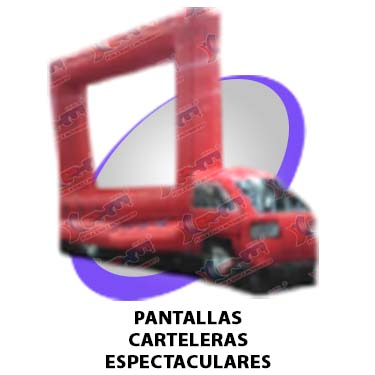
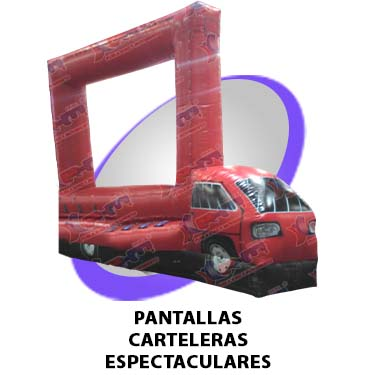
Ajustes solicitados por Marlene

Changed region(s): [[0.1173, 0.0, 0.8507, 0.8213], [0.6747, 0.6747, 0.704, 0.7333]]

diff --git a/frontend/src/components/HowToBuySection.jsx b/frontend/src/components/HowToBuySection.jsx
@@ -3,37 +3,65 @@ function HowToBuySection() {
     {
       id: 1,
       title: 'PASO 1',
-      description: 'Explora nuestro catálogo de productos y encuentra lo que necesitas'
+      description: (
+        <>
+          <strong>Explora nuestro catálogo de productos y encuentra lo que necesitas</strong>
+        </>
+      )
     },
     {
       id: 2,
       title: 'PASO 2',
-      description: 'Contacta con nuestro equipo de ventas por WhatsApp o teléfono'
+      description: (
+        <>
+          <strong>Contacta con nuestro equipo de ventas por WhatsApp o teléfono</strong>
+        </>
+      )
     },
     {
       id: 3,
       title: 'PASO 3',
-      description: 'Cuéntanos tu idea y personaliza tu producto'
+      description: (
+        <>
+          <strong>Cuéntanos tu idea y personaliza tu producto</strong>
+        </>
+      )
     },
     {
       id: 4,
       title: 'PASO 4',
-      description: 'Recibe una cotización detallada sin compromiso'
+      description: (
+        <>
+          <strong>Recibe una cotización detallada sin compromiso</strong>
+        </>
+      )
     },
     {
       id: 5,
       title: 'PASO 5',
-      description: 'Aprueba el diseño y confirma tu pedido'
+      description: (
+        <>
+          <strong>Aprueba el diseño y confirma tu pedido</strong>
+        </>
+      )
     },
     {
       id: 6,
       title: 'PASO 6',
-      description: 'Nuestro equipo fabrica tu producto con los mejores materiales'
+      description: (
+        <>
+          <strong>Nuestro equipo fabrica tu producto con los mejores materiales</strong>
+        </>
+      )
     },
     {
       id: 7,
       title: 'PASO 7',
-      description: 'Recibe tu producto y destaca en tu evento o campaña'
+      description: (
+        <>
+          <strong>Recibe tu producto y destaca en tu evento o campaña</strong>
+        </>
+      )
     }
   ]
 
@@ -111,7 +139,7 @@ function HowToBuySection() {
               {/* DESCRIPCIÓN */}
               <p
                 style={{
-                  color: '#666',
+                  color: '#000',
                   fontSize: '0.95rem',
                   lineHeight: '1.6',
                   margin: 0,

diff --git a/frontend/src/pages/categories/TurbinasPage.jsx b/frontend/src/pages/categories/TurbinasPage.jsx
@@ -36,7 +36,32 @@ export default function TurbinasPage() {
           gap: '24px',
           marginBottom: '3rem'
         }}
-      />
+      >
+        <img
+          src="/images/categories/turbinas/turbina-azul.jpg"
+          alt="Turbina o soplador azul para inflables publicitarios, flujo de aire estable en eventos"
+          loading="lazy"
+          style={{ width: '100%', borderRadius: '14px' }}
+        />
+        <img
+          src="/images/categories/turbinas/turbina-fosforescente.jpg"
+          alt="Turbina fosforescente para inflables publicitarios, potencia visible y segura"
+          loading="lazy"
+          style={{ width: '100%', borderRadius: '14px' }}
+        />
+        <img
+          src="/images/categories/turbinas/turbina-amarillo.jpg"
+          alt="Turbina amarilla para inflables publicitarios, equipo profesional para activaciones"
+          loading="lazy"
+          style={{ width: '100%', borderRadius: '14px' }}
+        />
+        <img
+          src="/images/categories/turbinas/turbina-pm.jpg"
+          alt="Turbina Publicidad y Movimiento para inflables, respaldo confiable para eventos"
+          loading="lazy"
+          style={{ width: '100%', borderRadius: '14px' }}
+        />
+      </div>
 
       {/* CTA PRINCIPAL */}
       <div style={{ textAlign: 'center', margin: '1.5rem 0 2.5rem' }}>

diff --git a/frontend/src/components/AboutSection.css b/frontend/src/components/AboutSection.css
@@ -5,10 +5,10 @@
 
 .about-section__art {
   position: relative;
-  width: 100%;
-  max-width: 1400px;
-  margin: 0 auto;
-  border-radius: 28px;
+  width: 100vw; /* full-bleed to eliminate side margins */
+  max-width: 100vw;
+  margin: 0 calc(50% - 50vw);
+  border-radius: 0;
   overflow: visible;
   box-shadow: 0 24px 60px rgba(0, 0, 0, 0.25);
 }
@@ -37,10 +37,6 @@
 }
 
 @media (max-width: 768px) {
-  .about-section__art {
-    border-radius: 22px;
-  }
-
   .about-section__video-wrapper {
     bottom: 12%;
     width: min(400px, 82%);
@@ -48,10 +44,6 @@
 }
 
 @media (max-width: 540px) {
-  .about-section__art {
-    border-radius: 18px;
-  }
-
   .about-section__video-wrapper {
     bottom: 10%; /* 👈 Bajamos el video */
     width: min(300px, 80%);
